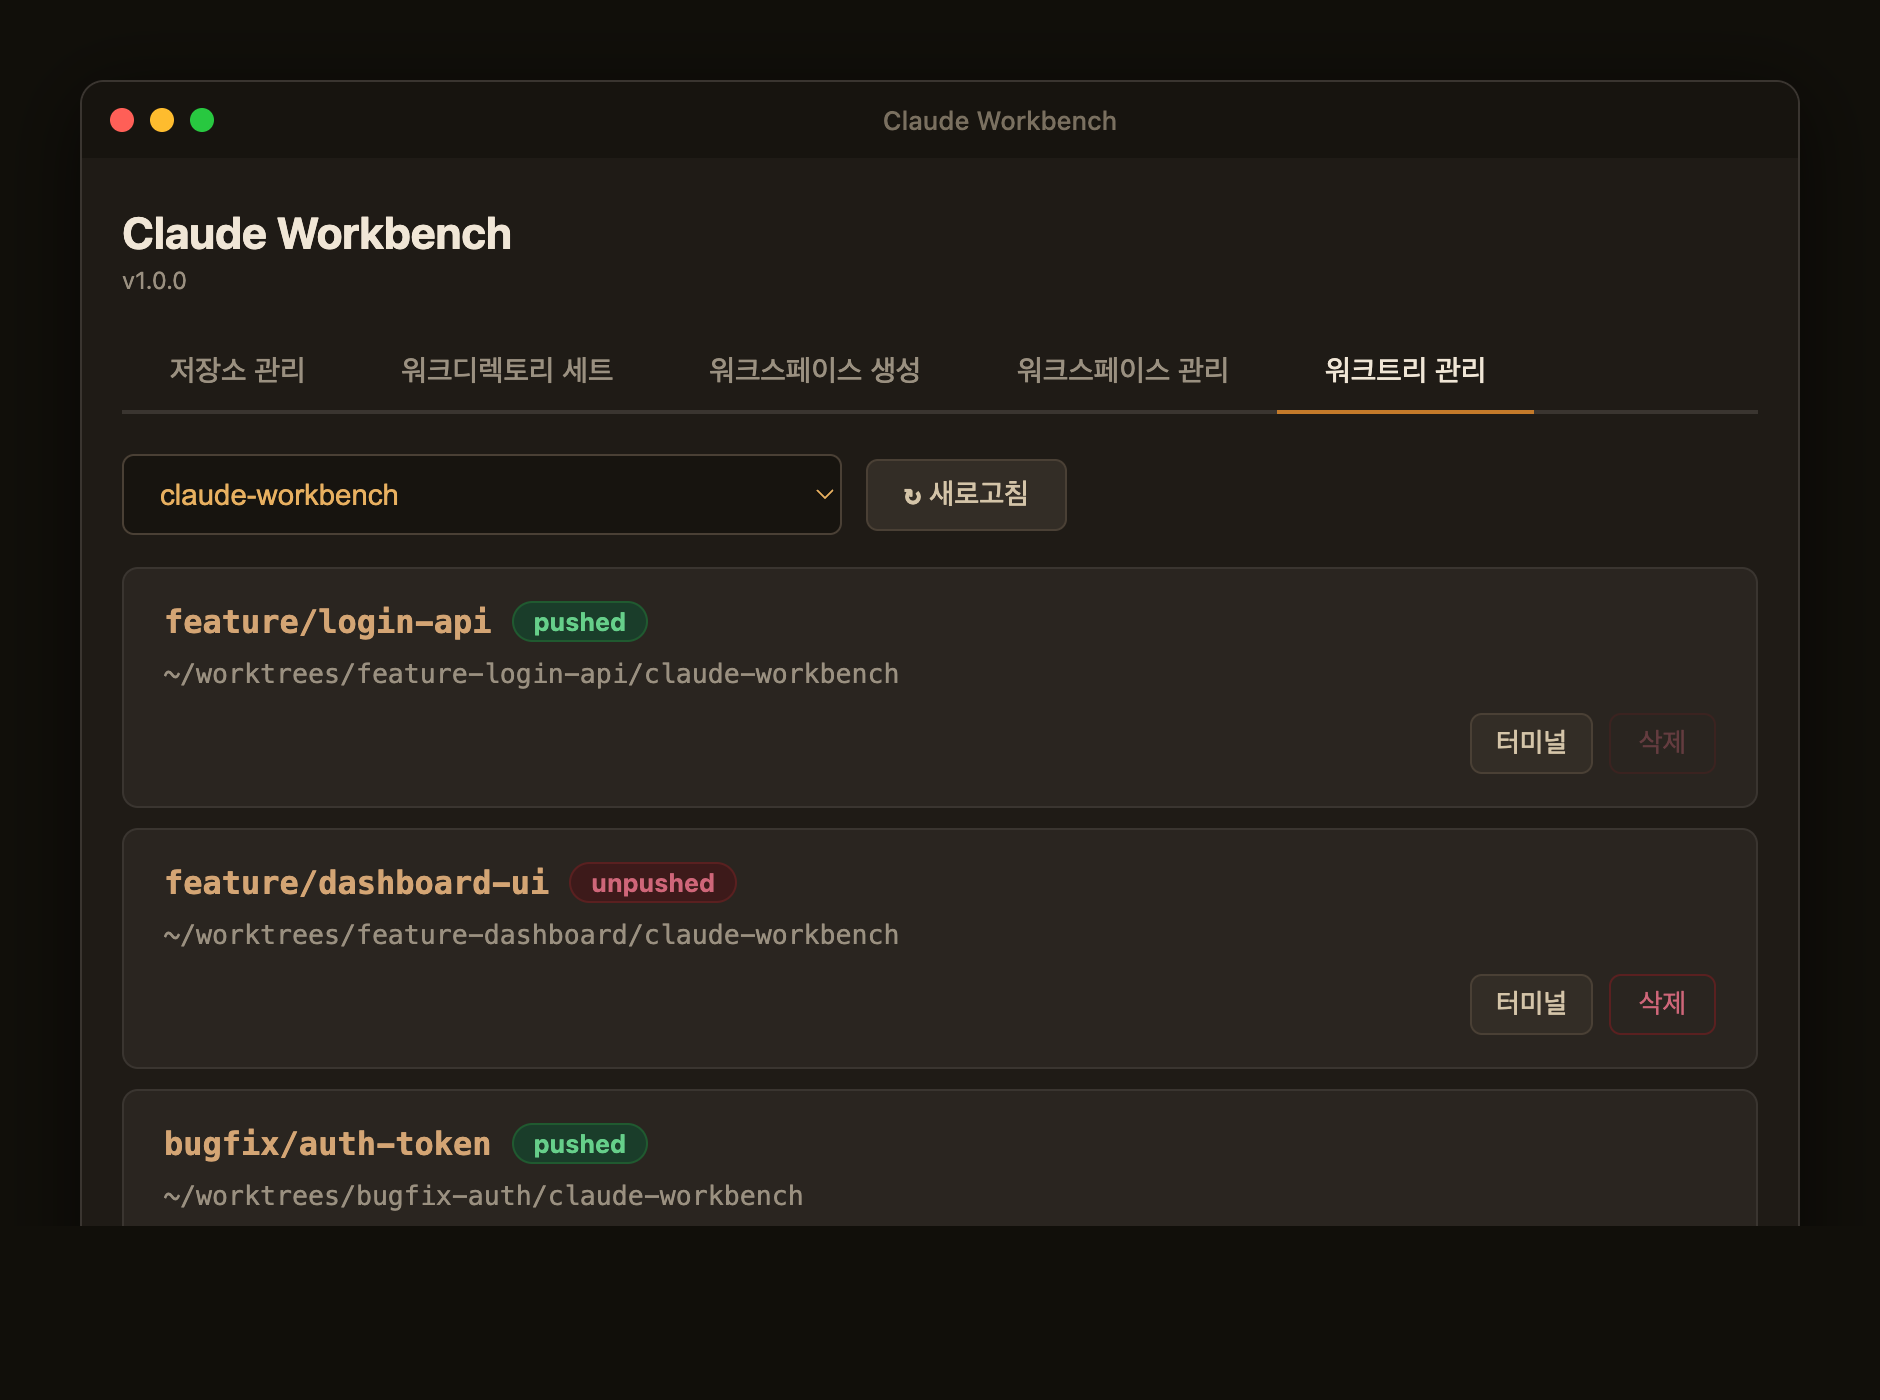
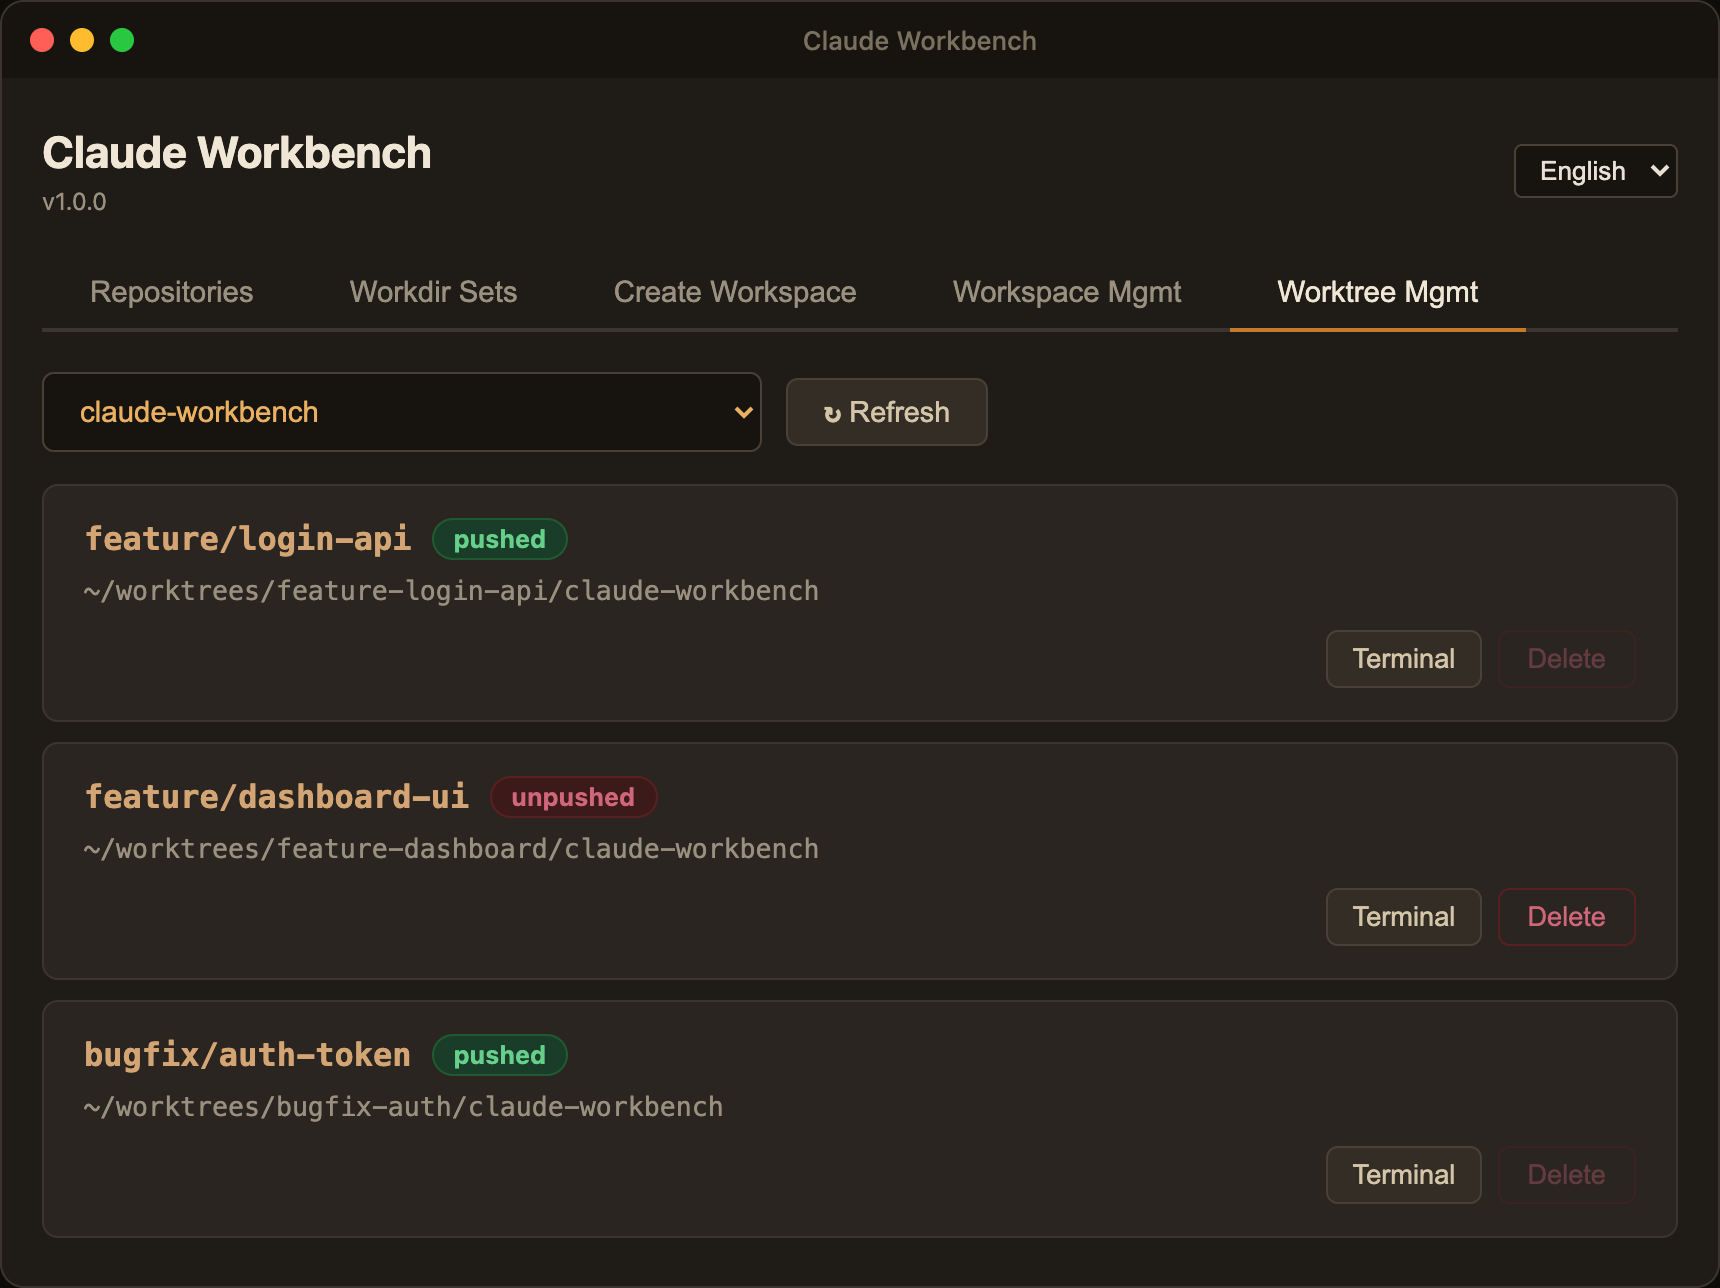
docs: mock HTML 영어화 + 영어 UI 스크린샷 갱신 (REQ-016)
- 4개 mock HTML 파일 한국어→영어 번역 + 언어 선택 드롭다운 추가
- Puppeteer로 영어 UI 스크린샷 4장 재캡처

diff --git a/docs/mock-workspace-create.html b/docs/mock-workspace-create.html
@@ -1,5 +1,5 @@
 <!DOCTYPE html>
-<html lang="ko">
+<html lang="en">
 <head>
 <meta charset="UTF-8"/>
 <style>
@@ -48,46 +48,49 @@ h1 { font-size: 22px; font-weight: 700; color: #f0e6d6; }
     <div class="titlebar-text">Claude Workbench</div>
   </div>
   <div class="container">
-    <header class="app-header"><h1>Claude Workbench</h1><p class="version">v1.0.0</p></header>
+    <header class="app-header" style="display:flex;align-items:center;justify-content:space-between;">
+      <div><h1>Claude Workbench</h1><p class="version">v1.0.0</p></div>
+      <select style="padding:4px 8px;border:1px solid #4a4035;border-radius:4px;background:#17140f;color:#e8e0d4;font-size:0.82em;"><option>English</option><option>한국어</option></select>
+    </header>
     <nav class="tab-nav">
-      <button class="tab-btn">저장소 관리</button>
-      <button class="tab-btn">워크디렉토리 세트</button>
-      <button class="tab-btn active">워크스페이스 생성</button>
-      <button class="tab-btn">워크스페이스 관리</button>
-      <button class="tab-btn">워크트리 관리</button>
+      <button class="tab-btn">Repositories</button>
+      <button class="tab-btn">Workdir Sets</button>
+      <button class="tab-btn active">Create Workspace</button>
+      <button class="tab-btn">Workspace Mgmt</button>
+      <button class="tab-btn">Worktree Mgmt</button>
     </nav>
     <div class="worktree-section">
-      <label class="section-label">1. 워크디렉토리 세트 선택</label>
+      <label class="section-label">1. SELECT WORKDIR SET</label>
       <select class="form-input" style="color:#e8b060;"><option>Backend Services</option></select>
     </div>
     <div class="worktree-section">
-      <label class="section-label">2. 레포별 베이스 브랜치 확인</label>
+      <label class="section-label">2. BASE BRANCHES PER REPO</label>
       <div class="wt-repo-list">
         <div class="wt-repo-row"><span class="wt-repo-name">claude-workbench</span><select class="wt-branch-select"><option>main</option></select></div>
         <div class="wt-repo-row"><span class="wt-repo-name">api-server</span><select class="wt-branch-select"><option>develop</option></select></div>
         <div class="wt-repo-row"><span class="wt-repo-name">web-frontend</span><select class="wt-branch-select"><option>main</option></select></div>
       </div>
-      <button class="btn btn-secondary">원격 업데이트</button>
+      <button class="btn btn-secondary">Fetch Remote</button>
     </div>
     <div class="worktree-section">
-      <label class="section-label">3. 새 브랜치명</label>
+      <label class="section-label">3. NEW BRANCH NAME</label>
       <input type="text" class="form-input" value="feature/login-api" style="color:#e8e0d4;" />
     </div>
     <div class="worktree-section">
-      <label class="section-label">4. 워크트리 생성 경로</label>
+      <label class="section-label">4. WORKTREE PATH</label>
       <div class="wt-path-row">
         <input type="text" class="form-input wt-path-input" value="~/worktrees/feature-login-api" readonly style="color:#e8b060;" />
-        <button class="btn btn-secondary">경로 선택</button>
+        <button class="btn btn-secondary">Select Path</button>
       </div>
     </div>
     <div class="worktree-section">
-      <label class="section-label">처리 결과</label>
+      <label class="section-label">PROGRESS</label>
       <div class="wt-progress-list">
-        <div class="wt-progress-row"><span class="wt-badge wt-badge-success">OK</span><span class="wt-progress-name">claude-workbench</span><span class="wt-progress-msg">워크트리 생성 완료</span></div>
-        <div class="wt-progress-row"><span class="wt-badge wt-badge-success">OK</span><span class="wt-progress-name">api-server</span><span class="wt-progress-msg">워크트리 생성 완료</span></div>
-        <div class="wt-progress-row"><span class="wt-badge wt-badge-running" style="min-width:50px;">진행중</span><span class="wt-progress-name">web-frontend</span><span class="wt-progress-msg">워크트리 생성 중...</span></div>
+        <div class="wt-progress-row"><span class="wt-badge wt-badge-success">OK</span><span class="wt-progress-name">claude-workbench</span><span class="wt-progress-msg">Worktree created</span></div>
+        <div class="wt-progress-row"><span class="wt-badge wt-badge-success">OK</span><span class="wt-progress-name">api-server</span><span class="wt-progress-msg">Worktree created</span></div>
+        <div class="wt-progress-row"><span class="wt-badge wt-badge-running" style="min-width:50px;">WIP</span><span class="wt-progress-name">web-frontend</span><span class="wt-progress-msg">Creating worktree...</span></div>
       </div>
-      <div class="wt-summary">2/3 완료</div>
+      <div class="wt-summary">2/3 completed</div>
     </div>
   </div>
 </div>

diff --git a/docs/mock-sets.html b/docs/mock-sets.html
@@ -1,5 +1,5 @@
 <!DOCTYPE html>
-<html lang="ko">
+<html lang="en">
 <head>
 <meta charset="UTF-8"/>
 <style>
@@ -38,27 +38,30 @@ h1 { font-size: 22px; font-weight: 700; color: #f0e6d6; }
     <div class="titlebar-text">Claude Workbench</div>
   </div>
   <div class="container">
-    <header class="app-header"><h1>Claude Workbench</h1><p class="version">v1.0.0</p></header>
+    <header class="app-header" style="display:flex;align-items:center;justify-content:space-between;">
+      <div><h1>Claude Workbench</h1><p class="version">v1.0.0</p></div>
+      <select style="padding:4px 8px;border:1px solid #4a4035;border-radius:4px;background:#17140f;color:#e8e0d4;font-size:0.82em;"><option>English</option><option>한국어</option></select>
+    </header>
     <nav class="tab-nav">
-      <button class="tab-btn">저장소 관리</button>
-      <button class="tab-btn active">워크디렉토리 세트</button>
-      <button class="tab-btn">워크스페이스 생성</button>
-      <button class="tab-btn">워크스페이스 관리</button>
-      <button class="tab-btn">워크트리 관리</button>
+      <button class="tab-btn">Repositories</button>
+      <button class="tab-btn active">Workdir Sets</button>
+      <button class="tab-btn">Create Workspace</button>
+      <button class="tab-btn">Workspace Mgmt</button>
+      <button class="tab-btn">Worktree Mgmt</button>
     </nav>
-    <div class="action-bar"><button class="btn btn-primary">+ 세트 만들기</button></div>
+    <div class="action-bar"><button class="btn btn-primary">+ Create Set</button></div>
     <div class="set-list">
       <div class="set-card">
-        <div class="set-card-info"><div class="set-card-name">Backend Services</div><div class="set-card-meta"><span class="set-card-badge">3 repos</span><span>생성: 2026-03-05</span><span>수정: 2026-03-08</span></div></div>
-        <div class="set-card-actions"><button class="btn-secondary btn" style="padding:6px 12px;font-size:0.85em;">편집</button><button class="btn-danger">삭제</button></div>
+        <div class="set-card-info"><div class="set-card-name">Backend Services</div><div class="set-card-meta"><span class="set-card-badge">3 repos</span><span>Created: 2026-03-05</span><span>Updated: 2026-03-08</span></div></div>
+        <div class="set-card-actions"><button class="btn-secondary btn" style="padding:6px 12px;font-size:0.85em;">Edit</button><button class="btn-danger">Delete</button></div>
       </div>
       <div class="set-card">
-        <div class="set-card-info"><div class="set-card-name">Frontend Apps</div><div class="set-card-meta"><span class="set-card-badge">2 repos</span><span>생성: 2026-03-06</span><span>수정: 2026-03-07</span></div></div>
-        <div class="set-card-actions"><button class="btn-secondary btn" style="padding:6px 12px;font-size:0.85em;">편집</button><button class="btn-danger">삭제</button></div>
+        <div class="set-card-info"><div class="set-card-name">Frontend Apps</div><div class="set-card-meta"><span class="set-card-badge">2 repos</span><span>Created: 2026-03-06</span><span>Updated: 2026-03-07</span></div></div>
+        <div class="set-card-actions"><button class="btn-secondary btn" style="padding:6px 12px;font-size:0.85em;">Edit</button><button class="btn-danger">Delete</button></div>
       </div>
       <div class="set-card">
-        <div class="set-card-info"><div class="set-card-name">Full Stack Project</div><div class="set-card-meta"><span class="set-card-badge">5 repos</span><span>생성: 2026-03-01</span><span>수정: 2026-03-08</span></div></div>
-        <div class="set-card-actions"><button class="btn-secondary btn" style="padding:6px 12px;font-size:0.85em;">편집</button><button class="btn-danger">삭제</button></div>
+        <div class="set-card-info"><div class="set-card-name">Full Stack Project</div><div class="set-card-meta"><span class="set-card-badge">5 repos</span><span>Created: 2026-03-01</span><span>Updated: 2026-03-08</span></div></div>
+        <div class="set-card-actions"><button class="btn-secondary btn" style="padding:6px 12px;font-size:0.85em;">Edit</button><button class="btn-danger">Delete</button></div>
       </div>
     </div>
   </div>

diff --git a/docs/mock-worktree-manage.html b/docs/mock-worktree-manage.html
@@ -1,5 +1,5 @@
 <!DOCTYPE html>
-<html lang="ko">
+<html lang="en">
 <head>
 <meta charset="UTF-8"/>
 <style>
@@ -42,33 +42,36 @@ h1 { font-size: 22px; font-weight: 700; color: #f0e6d6; }
     <div class="titlebar-text">Claude Workbench</div>
   </div>
   <div class="container">
-    <header class="app-header"><h1>Claude Workbench</h1><p class="version">v1.0.0</p></header>
+    <header class="app-header" style="display:flex;align-items:center;justify-content:space-between;">
+      <div><h1>Claude Workbench</h1><p class="version">v1.0.0</p></div>
+      <select style="padding:4px 8px;border:1px solid #4a4035;border-radius:4px;background:#17140f;color:#e8e0d4;font-size:0.82em;"><option>English</option><option>한국어</option></select>
+    </header>
     <nav class="tab-nav">
-      <button class="tab-btn">저장소 관리</button>
-      <button class="tab-btn">워크디렉토리 세트</button>
-      <button class="tab-btn">워크스페이스 생성</button>
-      <button class="tab-btn">워크스페이스 관리</button>
-      <button class="tab-btn active">워크트리 관리</button>
+      <button class="tab-btn">Repositories</button>
+      <button class="tab-btn">Workdir Sets</button>
+      <button class="tab-btn">Create Workspace</button>
+      <button class="tab-btn">Workspace Mgmt</button>
+      <button class="tab-btn active">Worktree Mgmt</button>
     </nav>
     <div class="action-bar">
       <select class="form-input rm-repo-select" style="color:#e8b060;"><option>claude-workbench</option></select>
-      <button class="btn btn-secondary">&#x21bb; 새로고침</button>
+      <button class="btn btn-secondary">&#x21bb; Refresh</button>
     </div>
     <div class="rm-card-list">
       <div class="wt-card">
         <div class="wt-card-header"><span class="wt-card-branch">feature/login-api</span><span class="wt-card-badge wt-badge-pushed">pushed</span></div>
         <div class="wt-card-path">~/worktrees/feature-login-api/claude-workbench</div>
-        <div class="wt-card-actions"><button class="btn btn-secondary" style="padding:6px 12px;font-size:0.85em;">터미널</button><button class="btn-danger btn-danger-disabled">삭제</button></div>
+        <div class="wt-card-actions"><button class="btn btn-secondary" style="padding:6px 12px;font-size:0.85em;">Terminal</button><button class="btn-danger btn-danger-disabled">Delete</button></div>
       </div>
       <div class="wt-card">
         <div class="wt-card-header"><span class="wt-card-branch">feature/dashboard-ui</span><span class="wt-card-badge wt-badge-unpushed">unpushed</span></div>
         <div class="wt-card-path">~/worktrees/feature-dashboard/claude-workbench</div>
-        <div class="wt-card-actions"><button class="btn btn-secondary" style="padding:6px 12px;font-size:0.85em;">터미널</button><button class="btn-danger">삭제</button></div>
+        <div class="wt-card-actions"><button class="btn btn-secondary" style="padding:6px 12px;font-size:0.85em;">Terminal</button><button class="btn-danger">Delete</button></div>
       </div>
       <div class="wt-card">
         <div class="wt-card-header"><span class="wt-card-branch">bugfix/auth-token</span><span class="wt-card-badge wt-badge-pushed">pushed</span></div>
         <div class="wt-card-path">~/worktrees/bugfix-auth/claude-workbench</div>
-        <div class="wt-card-actions"><button class="btn btn-secondary" style="padding:6px 12px;font-size:0.85em;">터미널</button><button class="btn-danger btn-danger-disabled">삭제</button></div>
+        <div class="wt-card-actions"><button class="btn btn-secondary" style="padding:6px 12px;font-size:0.85em;">Terminal</button><button class="btn-danger btn-danger-disabled">Delete</button></div>
       </div>
     </div>
   </div>

diff --git a/docs/screenshot-mock.html b/docs/screenshot-mock.html
@@ -1,5 +1,5 @@
 <!DOCTYPE html>
-<html lang="ko">
+<html lang="en">
 <head>
 <meta charset="UTF-8"/>
 <style>
@@ -40,23 +40,23 @@ h1 { font-size: 22px; font-weight: 700; color: #f0e6d6; }
     <div class="titlebar-text">Claude Workbench</div>
   </div>
   <div class="container">
-    <header class="app-header">
-      <h1>Claude Workbench</h1>
-      <p class="version">v1.0.0</p>
+    <header class="app-header" style="display:flex;align-items:center;justify-content:space-between;">
+      <div><h1>Claude Workbench</h1><p class="version">v1.0.0</p></div>
+      <select style="padding:4px 8px;border:1px solid #4a4035;border-radius:4px;background:#17140f;color:#e8e0d4;font-size:0.82em;"><option>English</option><option>한국어</option></select>
     </header>
     <nav class="tab-nav">
-      <button class="tab-btn active">저장소 관리</button>
-      <button class="tab-btn">워크디렉토리 세트</button>
-      <button class="tab-btn">워크스페이스 생성</button>
-      <button class="tab-btn">워크스페이스 관리</button>
-      <button class="tab-btn">워크트리 관리</button>
+      <button class="tab-btn active">Repositories</button>
+      <button class="tab-btn">Workdir Sets</button>
+      <button class="tab-btn">Create Workspace</button>
+      <button class="tab-btn">Workspace Mgmt</button>
+      <button class="tab-btn">Worktree Mgmt</button>
     </nav>
     <div class="action-bar">
-      <button class="btn btn-primary">+ 저장소 추가</button>
-      <div class="search-wrapper"><input type="text" class="search-input" placeholder="저장소 검색..." /></div>
+      <button class="btn btn-primary">+ Add Repository</button>
+      <div class="search-wrapper"><input type="text" class="search-input" placeholder="Search repositories..." /></div>
     </div>
     <table class="repo-table">
-      <thead><tr><th>이름</th><th>경로</th><th>브랜치</th><th class="col-action">액션</th></tr></thead>
+      <thead><tr><th>Name</th><th>Path</th><th>Branch</th><th class="col-action">Actions</th></tr></thead>
       <tbody>
         <tr><td><span class="repo-name">claude-workbench</span></td><td><span class="repo-path">~/projects/claude-workbench</span></td><td><span class="branch-badge">main</span></td><td class="col-action"><button class="btn-danger">&times;</button></td></tr>
         <tr><td><span class="repo-name">api-server</span></td><td><span class="repo-path">~/projects/api-server</span></td><td><span class="branch-badge">develop</span></td><td class="col-action"><button class="btn-danger">&times;</button></td></tr>
